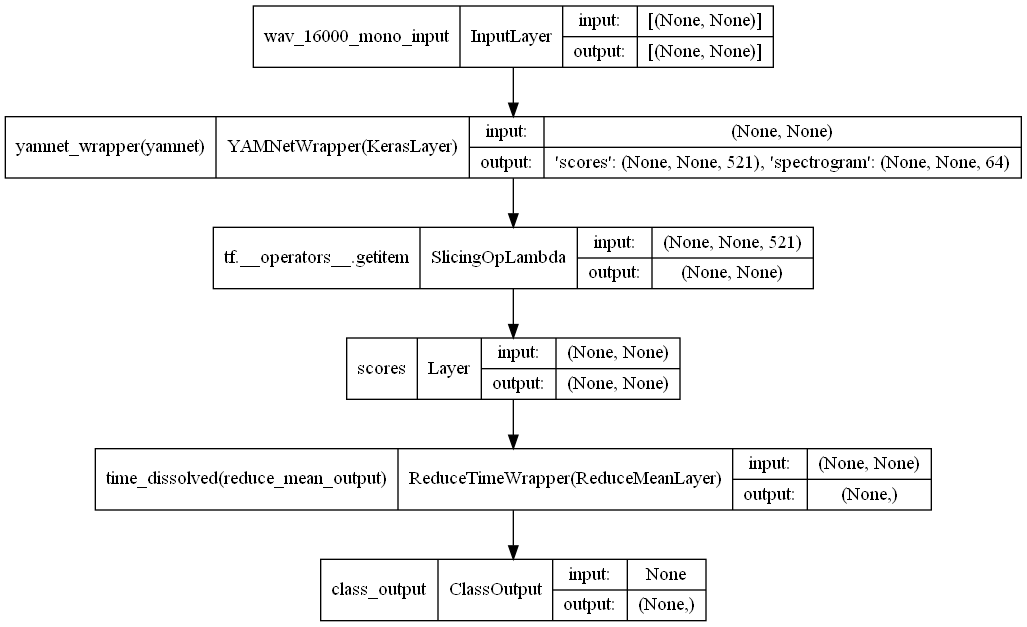
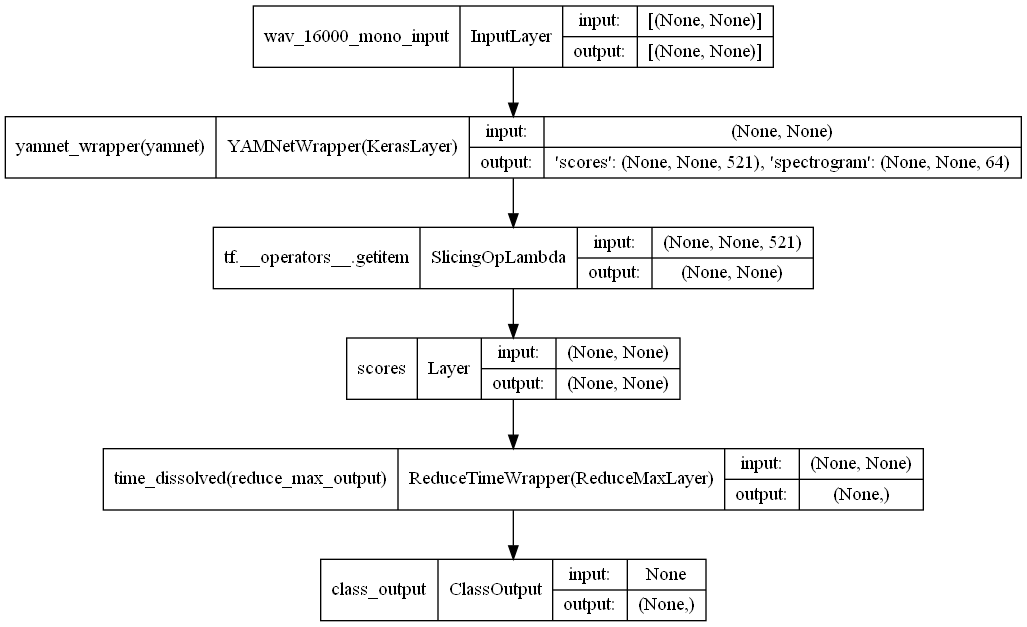
yamnet base time dissolved with reduce max

Changed region(s): [[0.6232, 0.7273, 0.9036, 0.8182], [0.0935, 0.7576, 0.3116, 0.7879]]

diff --git a/src/bicycle_bell_sed_models/utils/custom_layers.py b/src/bicycle_bell_sed_models/utils/custom_layers.py
@@ -32,6 +32,14 @@ class ReduceMeanLayer(keras.layers.Layer):
   def call(self, input):
     return tf.math.reduce_mean(input, axis=self.axis)
 
+class ReduceMaxLayer(keras.layers.Layer):
+  def __init__(self, axis=0, name='reduce_max', **kwargs):
+    super(ReduceMaxLayer, self).__init__(name=name, **kwargs)
+    self.axis = axis
+
+  def call(self, input):
+    return tf.math.reduce_max(input, axis=self.axis)
+
 class ArgMaxLayer(keras.layers.Layer):
   def __init__(self, axis=0, name='arg_max', **kwargs):
     super(ArgMaxLayer, self).__init__(name=name, **kwargs)
@@ -42,6 +50,7 @@ class ArgMaxLayer(keras.layers.Layer):
 
 class ReductionOptions(Enum):
   REDUCE_MEAN = ReduceMeanLayer
+  REDUCE_MAX = ReduceMaxLayer
   LSTM_CELL = keras.layers.LSTM
   AVERAGE_POOLING_1D = keras.layers.GlobalAveragePooling1D
   ARGMAX = ArgMaxLayer
@@ -52,6 +61,9 @@ class ReduceTimeWrapper(keras.layers.Wrapper):
     self.mode = mode
     if mode == ReductionOptions.REDUCE_MEAN:
       layer = ReduceMeanLayer(axis=layer_axis, name='reduce_mean_output')
+
+    elif mode == ReductionOptions.REDUCE_MAX:
+      layer = ReduceMaxLayer(axis=layer_axis, name='reduce_max_output')
 
     elif mode == ReductionOptions.LSTM_CELL:
       layer = keras.layers.LSTM(num_classes, return_sequences=False, recurrent_activation='softmax', name='lstm_output')

diff --git a/src/bicycle_bell_sed_models/models/yamnet_base.py b/src/bicycle_bell_sed_models/models/yamnet_base.py
@@ -11,7 +11,7 @@ def _yamnet_pretrained_net(input, yamnetOutputType, yamnet_model_handle='https:/
   return yamnet_wrapper_dict['scores'][:, :, BICYCLE_BELL_CLASS_INDEX], yamnet_wrapper_dict['spectrogram']
 
 def _dissolve_time(input):
-  single_out = ReduceTimeWrapper(ReductionOptions.ARGMAX)(input)
+  single_out = ReduceTimeWrapper(ReductionOptions.REDUCE_MAX)(input)
   return single_out
 
 
